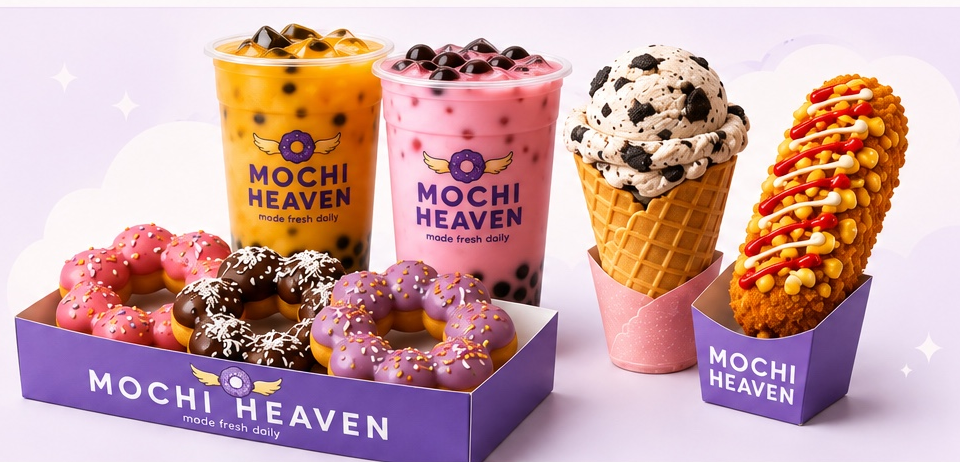
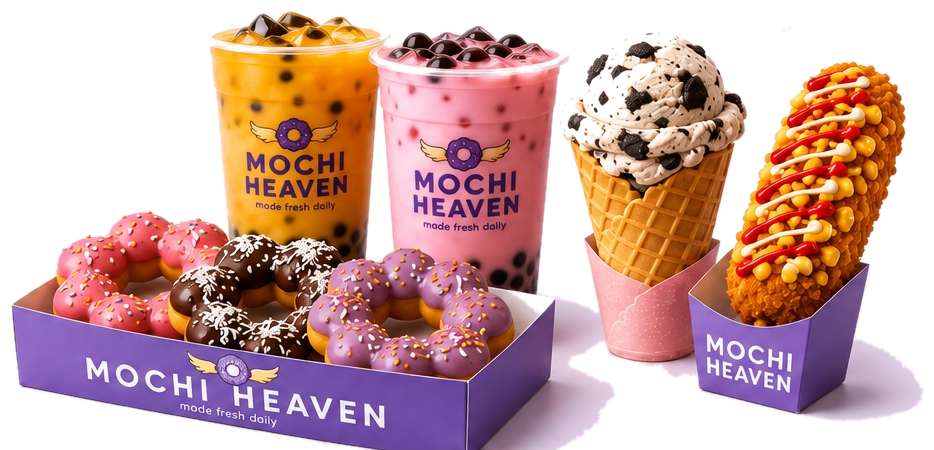
The hero now blends seamlessly — the products float directly on the lavender background with no rectangular box or crop, matching the card treatment.
## Hero Image Fixed
- **Removed the boxed/cropped look**: the hero image had its own light "cloud" rectangle background. I stripped that background to transparent (same technique as the cards), so the donuts, boba, ice cream and rice dog now float and blend right into the lavender hero.
- **Scaled to fit**: it now fills the space fluidly (width-based, no fixed-height letterboxing) so it reads as part of the background, with a soft drop-shadow for grounding. Original saved in `_white_src/` in case you want it back.

**On your domain question:** Yes — after you connect your custom domain in Vercel, `yourdomain.com/admin` works identically. The admin editor and password are baked into the site itself, so they follow it to any domain. There's still no public link to it anywhere, so only you (knowing the URL + password) can edit.

### Next Action Items
- **Go Live**: Push to GitHub and connect your domain on Vercel so customers can find you
- **Your Real Photos**: Send your own product shots and I'll background-remove and drop them in
- **Change Password**: Log into `/admin` and set your own private password right away
- **Photo Gallery**: Add a scrolling gallery of your treats to make the homepage even more mouth-watering

diff --git a/frontend/src/styles.css b/frontend/src/styles.css
@@ -48,8 +48,8 @@
 .favorite-box{width:100%;max-width:460px;margin-top:22px;border:1px solid var(--line);border-radius:16px;background:rgba(255,255,255,.6);backdrop-filter:blur(6px);padding:13px 20px;display:flex;align-items:center;justify-content:space-between;gap:14px;box-shadow:0 8px 22px rgba(94,53,165,.08)}
 .favorite-box span{color:var(--purple);font-weight:900;font-size:.72rem;letter-spacing:.06em}
 .favorite-box strong{font-family:"Baloo 2";color:var(--purple);font-size:1.35rem;font-style:italic;display:inline-flex;align-items:center;gap:4px}
-.hero-image-wrap{position:relative;height:480px;display:flex;align-items:center;justify-content:center}
-.hero-image-wrap img{width:100%;height:100%;object-fit:contain;filter:drop-shadow(0 30px 40px rgba(94,53,165,.22))}
+.hero-image-wrap{position:relative;display:flex;align-items:center;justify-content:center}
+.hero-image-wrap img{width:100%;height:auto;object-fit:contain;filter:drop-shadow(0 22px 24px rgba(94,53,165,.20))}
 .spark{position:absolute;color:#b98bff;z-index:2;filter:drop-shadow(0 2px 4px rgba(148,99,207,.3))}
 .spark.s1{top:12%;left:6%}
 .spark.s2{top:26%;right:12%;color:#e6b3ff}
@@ -230,7 +230,7 @@ textarea.field{resize:vertical;font-family:inherit}
   .nav-right .social{display:none}
   .hero-inner{grid-template-columns:1fr;min-height:auto;padding-top:40px}
   .hero-copy{padding-left:0;max-width:640px}
-  .hero-image-wrap{height:400px;margin-top:10px}
+  .hero-image-wrap{margin-top:10px}
   .cards,.product-grid{grid-template-columns:repeat(2,1fr)}
   .feature-strip{grid-template-columns:1fr 1fr}
   .feature-strip>div:nth-child(2){border-right:0}
@@ -247,7 +247,6 @@ textarea.field{resize:vertical;font-family:inherit}
   .nav-links a.active:after{display:none}
   .nav-right{gap:0}
   .hero h1{font-size:4rem}
-  .hero-image-wrap{height:300px}
   .filters{gap:10px}
   .filter{min-width:calc(50% - 10px)}
   .cards,.product-grid{grid-template-columns:1fr}
